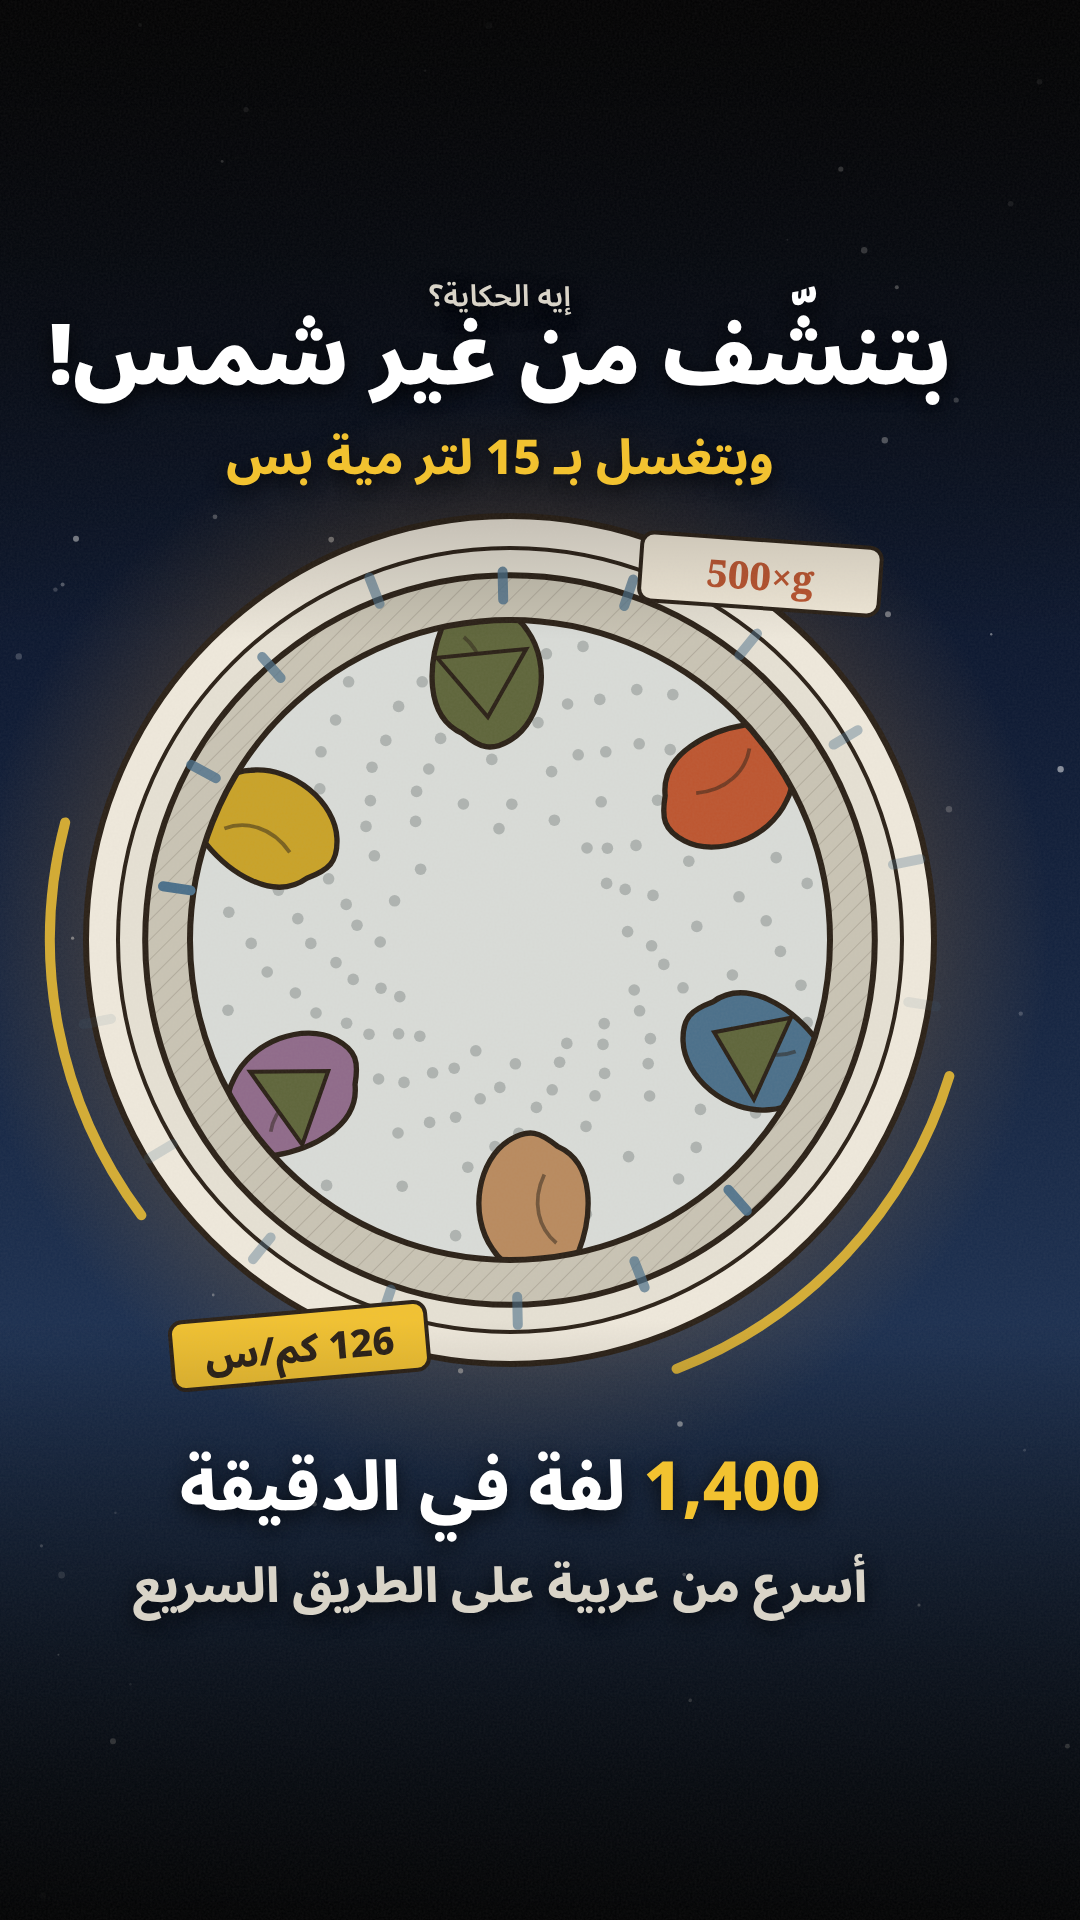
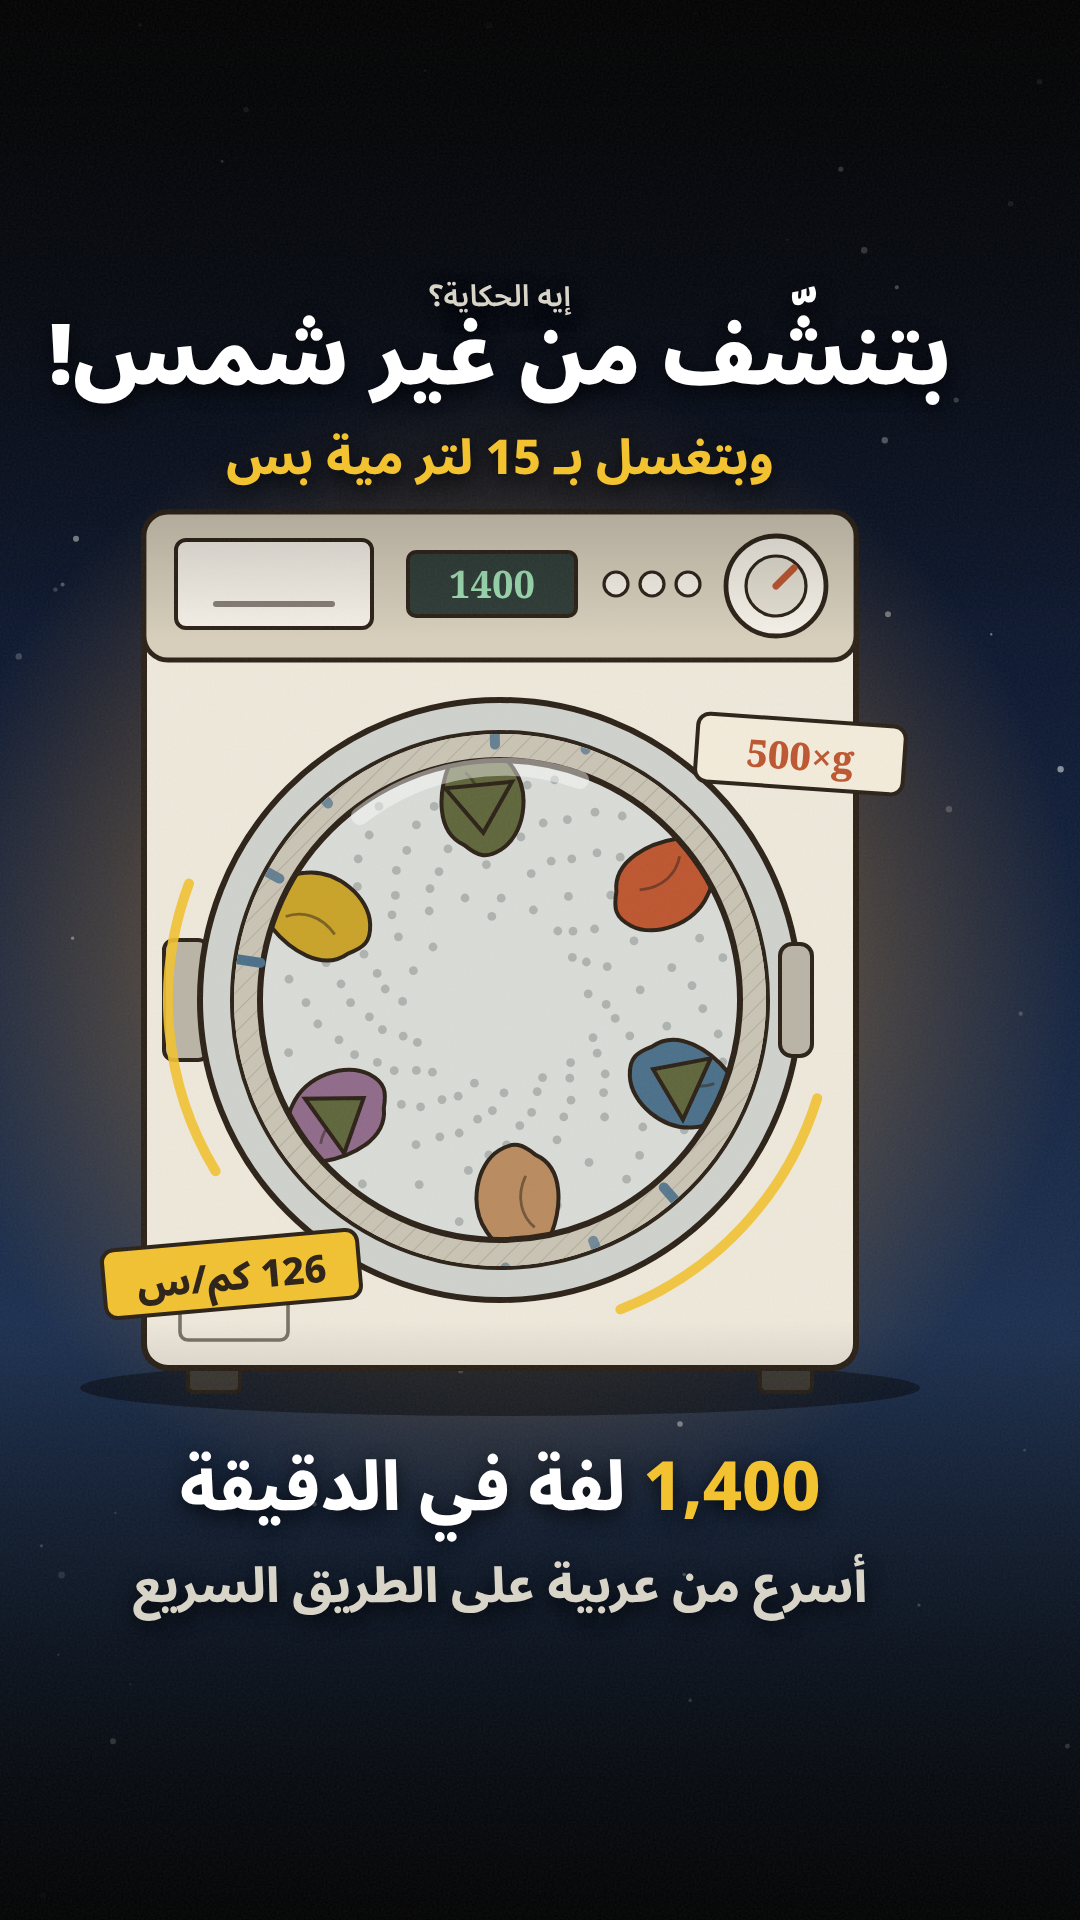
Washer-dryer cover: draw the whole washer, not only the drum
Claude-Session: https://claude.ai/code/session_016TN7FHpBqxF8sMffUDJQgv

Changed region(s): [[0.0306, 0.25, 0.8861, 0.75]]

diff --git a/brand/eh-elhekaya/cover-washer-dryer-tiktok.html b/brand/eh-elhekaya/cover-washer-dryer-tiktok.html
@@ -4,7 +4,7 @@
 <style>
   /* «الغسالة اللي بتنشّف» reel cover, full bleed 540×960 (1080×1920 at 2x), the tunnel-cover palette: dark night sky at the top,
      dark sea at the bottom, one warm glow behind the drum. The drawings are the episode's own (videos/washer-dryer/sketch):
-     the drum straight on at full spin, clothes pinned to the wall, water flying out of the holes.
+     the whole front-loading washer, its door glass showing the drum at full spin with the clothes pinned to the wall.
      Everything that matters stays inside the 3:4 crop (y 120–840) and away from TikTok's right-hand buttons. */
   body { margin: 0; background: #000; }
   .cover { position: relative; width: 540px; height: 960px; overflow: hidden; background: #000; }
@@ -37,13 +37,33 @@
   (function () {
     var s = '<rect width="540" height="960" fill="url(#sky)"/>', t = 2.37;
     for (var i = 0; i < 60; i++) { var x = hash(i) * 540, y = hash(i + 99) * 960, r = .5 + hash(i + 7) * 1.2; s += '<circle cx="' + f(x) + '" cy="' + f(y) + '" r="' + f(r) + '" fill="#fff" opacity="' + f(.15 + hash(i + 3) * .4) + '"/>'; }
-    s += '<circle cx="255" cy="470" r="270" fill="url(#warm)"/>';
-    // the washer's front ring around the drum, then the drum at full spin
-    s += '<circle cx="255" cy="470" r="212" fill="#efe9dc" stroke="#2a2016" stroke-width="3"/><circle cx="255" cy="470" r="196" fill="#e6e1d4" stroke="#2a2016" stroke-width="2"/>' + drumFront(255, 470, 160, t, { spin: 1, level: 0 });
-    // motion arcs round the rim
-    [.3, 2.5].forEach(function (a0) { s += '<path d="M' + f(255 + Math.cos(a0) * 230) + ' ' + f(470 + Math.sin(a0) * 230) + ' A230 230 0 0 1 ' + f(255 + Math.cos(a0 + .9) * 230) + ' ' + f(470 + Math.sin(a0 + .9) * 230) + '" stroke="#f2c230" stroke-width="5" fill="none" stroke-linecap="round" opacity=".85"/>'; });
-    s += '<g transform="translate(150 676) rotate(-5)"><rect x="-64" y="-20" width="128" height="34" rx="6" fill="#f2c230" stroke="#2a2016" stroke-width="2"/><text x="0" y="5" text-anchor="middle" style="font:800 19px Noto Sans Arabic;fill:#2a2016">126 كم/س</text></g>';
-    s += '<g transform="translate(380 290) rotate(4)"><rect x="-60" y="-20" width="120" height="34" rx="6" fill="#f4ecdb" stroke="#2a2016" stroke-width="2"/><text x="0" y="5" text-anchor="middle" style="font:800 19px Noto Serif;fill:#bd552f;direction:ltr">500×g</text></g>';
+    s += '<circle cx="250" cy="480" r="290" fill="url(#warm)"/>';
+    // the whole front-loading washer: cabinet, control panel (detergent drawer, display, buttons, dial),
+    // the round door with its glass showing the drum at full spin, the hinge, the handle, the service flap and the feet
+    var X = 72, Y = 256, W = 356, H = 428, cx = 250, cy = 500;
+    s += '<ellipse cx="250" cy="' + (Y + H + 10) + '" rx="210" ry="14" fill="#000" opacity=".45"/>';
+    s += '<rect x="' + (X + 22) + '" y="' + (Y + H - 6) + '" width="26" height="18" rx="3" fill="#3d3a34" stroke="#2a2016" stroke-width="2"/><rect x="' + (X + W - 48) + '" y="' + (Y + H - 6) + '" width="26" height="18" rx="3" fill="#3d3a34" stroke="#2a2016" stroke-width="2"/>';
+    s += '<rect x="' + X + '" y="' + Y + '" width="' + W + '" height="' + H + '" rx="12" fill="#efe9dc" stroke="#2a2016" stroke-width="3"/>';
+    s += '<rect x="' + X + '" y="' + Y + '" width="' + W + '" height="74" rx="12" fill="#d8d0bd" stroke="#2a2016" stroke-width="2.4"/>';
+    // detergent drawer with its finger pull
+    s += '<rect x="' + (X + 16) + '" y="' + (Y + 14) + '" width="98" height="44" rx="5" fill="#f7f3ea" stroke="#2a2016" stroke-width="2"/><path d="M' + (X + 36) + ' ' + (Y + 46) + ' h58" stroke="#2a2016" stroke-width="3" stroke-linecap="round" opacity=".55"/>';
+    // display and buttons
+    s += '<rect x="' + (X + 132) + '" y="' + (Y + 20) + '" width="84" height="32" rx="4" fill="#2d3b36" stroke="#2a2016" stroke-width="2"/><text x="' + (X + 174) + '" y="' + (Y + 43) + '" text-anchor="middle" style="font:700 19px Noto Serif;fill:#9fe0b4;direction:ltr">1400</text>';
+    for (var b2 = 0; b2 < 3; b2++) s += '<circle cx="' + (X + 236 + b2 * 18) + '" cy="' + (Y + 36) + '" r="6" fill="#f7f3ea" stroke="#2a2016" stroke-width="1.6"/>';
+    // the program dial
+    s += '<circle cx="' + (X + W - 40) + '" cy="' + (Y + 37) + '" r="25" fill="#f7f3ea" stroke="#2a2016" stroke-width="2.4"/><circle cx="' + (X + W - 40) + '" cy="' + (Y + 37) + '" r="15" fill="#e6e1d4" stroke="#2a2016" stroke-width="1.6"/><path d="M' + (X + W - 40) + ' ' + (Y + 37) + ' l9 -9" stroke="#bd552f" stroke-width="3.5" stroke-linecap="round"/>';
+    // door: chrome ring, hinge on the left, handle on the right, then the glass with the spinning drum behind
+    s += '<rect x="' + (cx - 168) + '" y="' + (cy - 30) + '" width="22" height="60" rx="5" fill="#b9b4a6" stroke="#2a2016" stroke-width="2"/>';
+    s += '<circle cx="' + cx + '" cy="' + cy + '" r="150" fill="#cfd2cd" stroke="#2a2016" stroke-width="3"/><circle cx="' + cx + '" cy="' + cy + '" r="134" fill="#e6e1d4" stroke="#2a2016" stroke-width="2"/>';
+    s += '<clipPath id="glass"><circle cx="' + cx + '" cy="' + cy + '" r="133"/></clipPath><g clip-path="url(#glass)">' + drumFront(cx, cy, 120, t, { spin: 1, level: 0 }) + '</g>';
+    s += '<path d="M' + (cx - 70) + ' ' + (cy - 92) + ' A116 116 0 0 1 ' + (cx + 40) + ' ' + (cy - 110) + '" stroke="#fff" stroke-width="9" fill="none" stroke-linecap="round" opacity=".45"/>';
+    s += '<rect x="' + (cx + 140) + '" y="' + (cy - 28) + '" width="16" height="56" rx="6" fill="#b9b4a6" stroke="#2a2016" stroke-width="2"/>';
+    // service flap at the bottom left
+    s += '<rect x="' + (X + 18) + '" y="' + (Y + H - 40) + '" width="54" height="26" rx="4" fill="none" stroke="#2a2016" stroke-width="1.8" opacity=".6"/>';
+    // spin arcs on the door, tags
+    [.3, 2.6].forEach(function (a0) { s += '<path d="M' + f(cx + Math.cos(a0) * 166) + ' ' + f(cy + Math.sin(a0) * 166) + ' A166 166 0 0 1 ' + f(cx + Math.cos(a0 + .9) * 166) + ' ' + f(cy + Math.sin(a0 + .9) * 166) + '" stroke="#f2c230" stroke-width="5" fill="none" stroke-linecap="round" opacity=".9"/>'; });
+    s += '<g transform="translate(116 640) rotate(-5)"><rect x="-64" y="-20" width="128" height="34" rx="6" fill="#f2c230" stroke="#2a2016" stroke-width="2"/><text x="0" y="5" text-anchor="middle" style="font:800 19px Noto Sans Arabic;fill:#2a2016">126 كم/س</text></g>';
+    s += '<g transform="translate(400 380) rotate(4)"><rect x="-52" y="-20" width="104" height="34" rx="6" fill="#f4ecdb" stroke="#2a2016" stroke-width="2"/><text x="0" y="5" text-anchor="middle" style="font:800 19px Noto Serif;fill:#bd552f;direction:ltr">500×g</text></g>';
     s += '<rect width="540" height="320" fill="url(#fadeT)"/><rect y="660" width="540" height="300" fill="url(#fadeB)"/><rect width="540" height="960" filter="url(#grain)"/>';
     document.getElementById("art").innerHTML = s;
   })();
